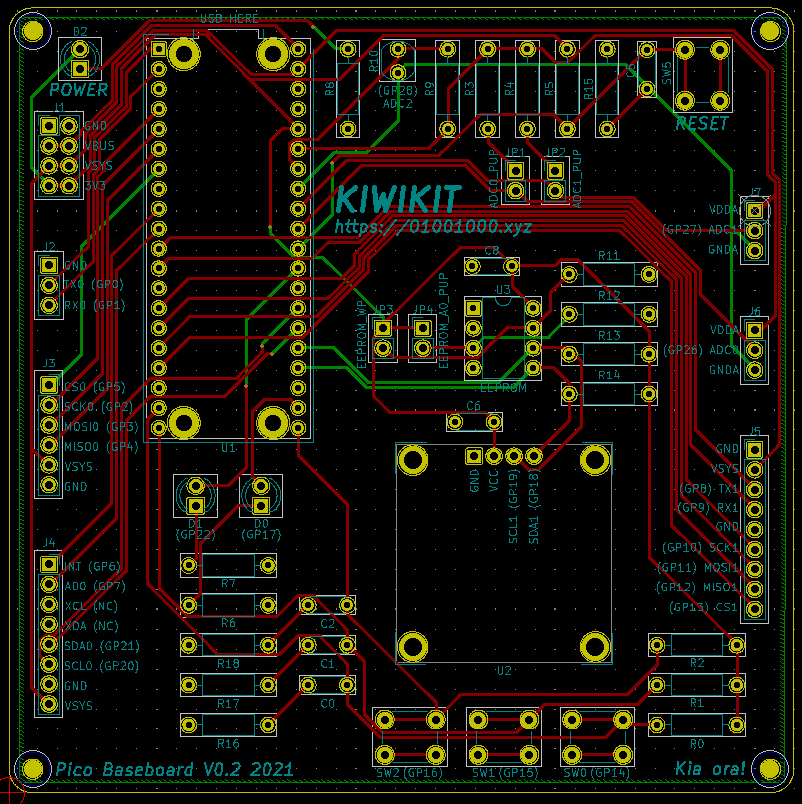
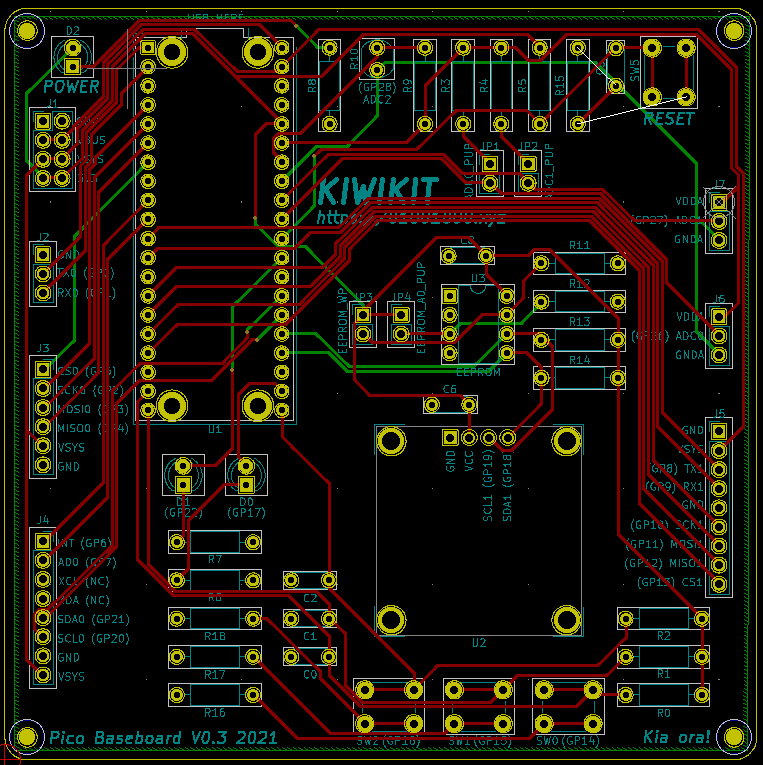
Push v0.3 changes to kiwikit-pico-baseboard

diff --git a/_posts/2021-02-13-Raspberry-Pi-Pico-dev-board-Kiwikit.md b/_posts/2021-02-13-Raspberry-Pi-Pico-dev-board-Kiwikit.md
@@ -132,7 +132,7 @@ I've used a few of the different online manufacturers, but the one I usually go 
 
 Following the steps, I produced and uploaded a gerber zip, paid the $2 for manufacture (for 10! wow!) and the $15 for shipping (sad US-China trade war / covid noises), and 2 weeks later they arrived!
 
-_NOTE: Photos in this section are of the V0.1 board compared with the V0.2 designs above. The changes were cosmetic (silk screen), and I added an extra resistor to each debouncer._
+_NOTE: Photos in this section are of the V0.1 board compared with the V0.3 designs above. The changes were cosmetic (silk screen), and I added an extra resistor to each debouncer._
 
 ![PCB]({{ 'assets/img/pico-kiwikit/pcb-empty.png' | relative_url }}){: .mx-auto.d-block :}
 
